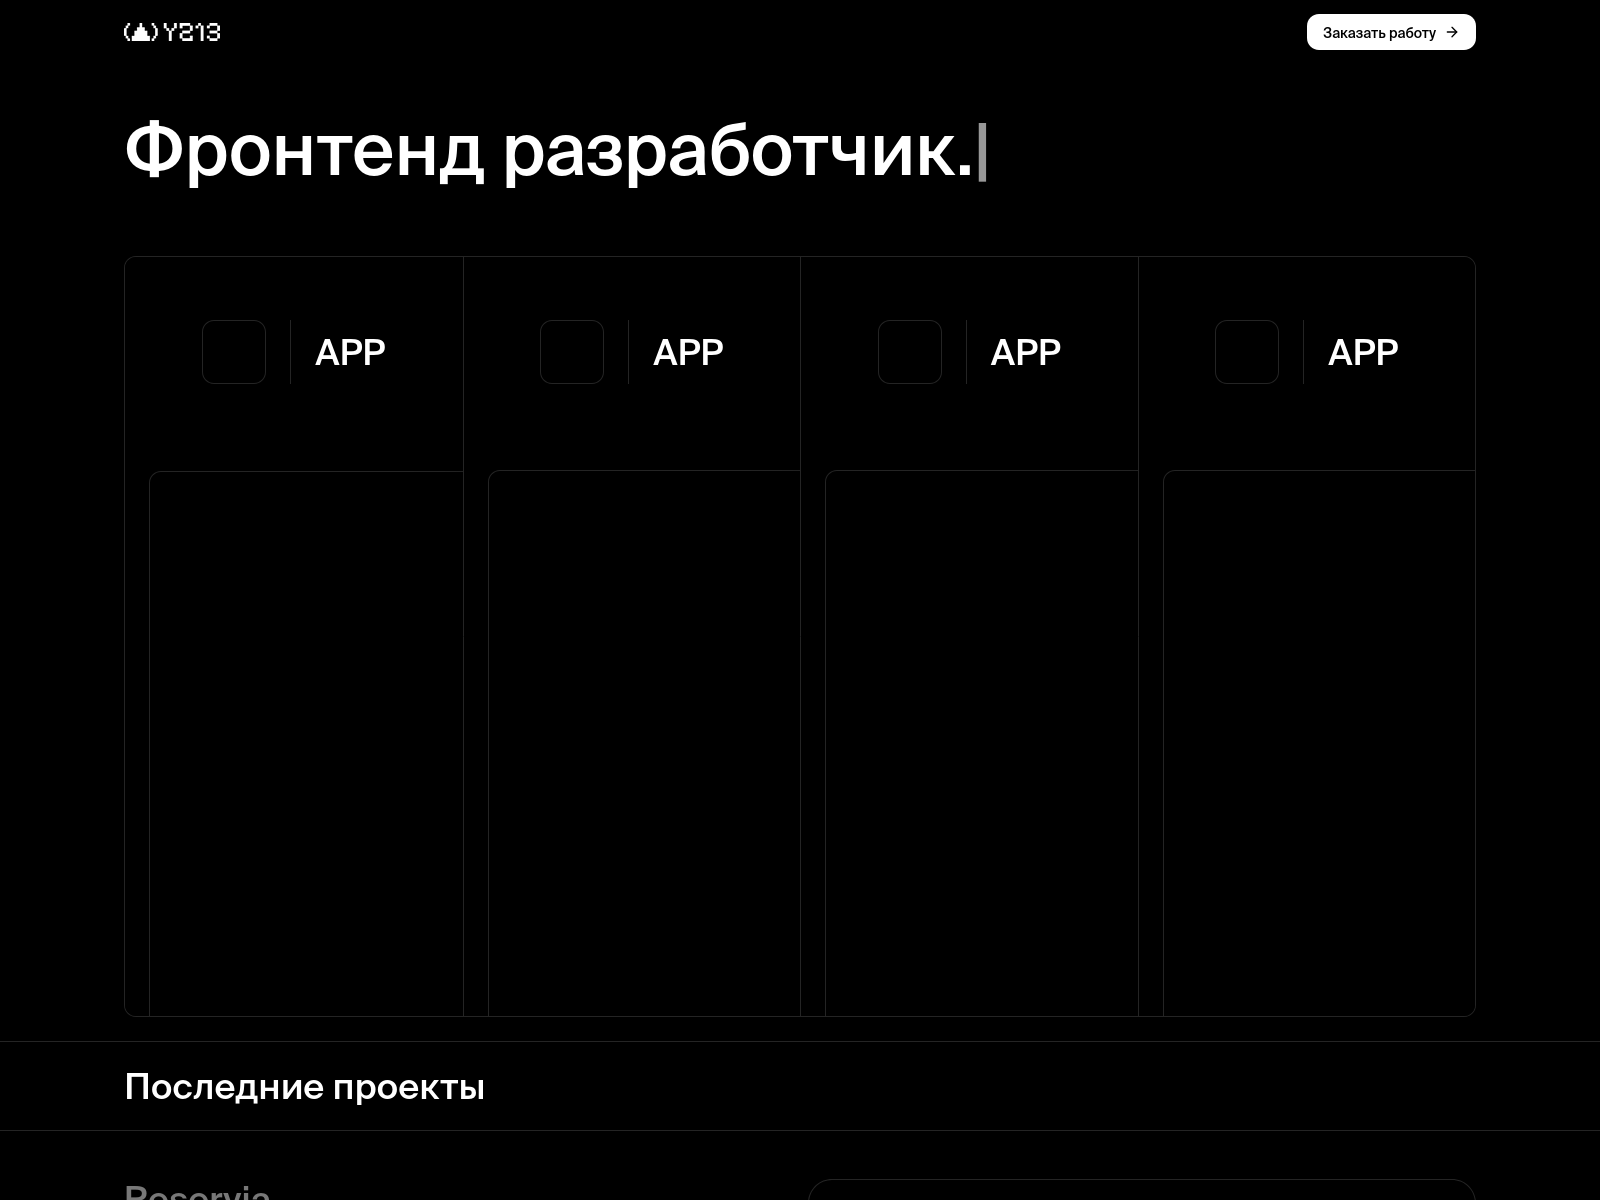
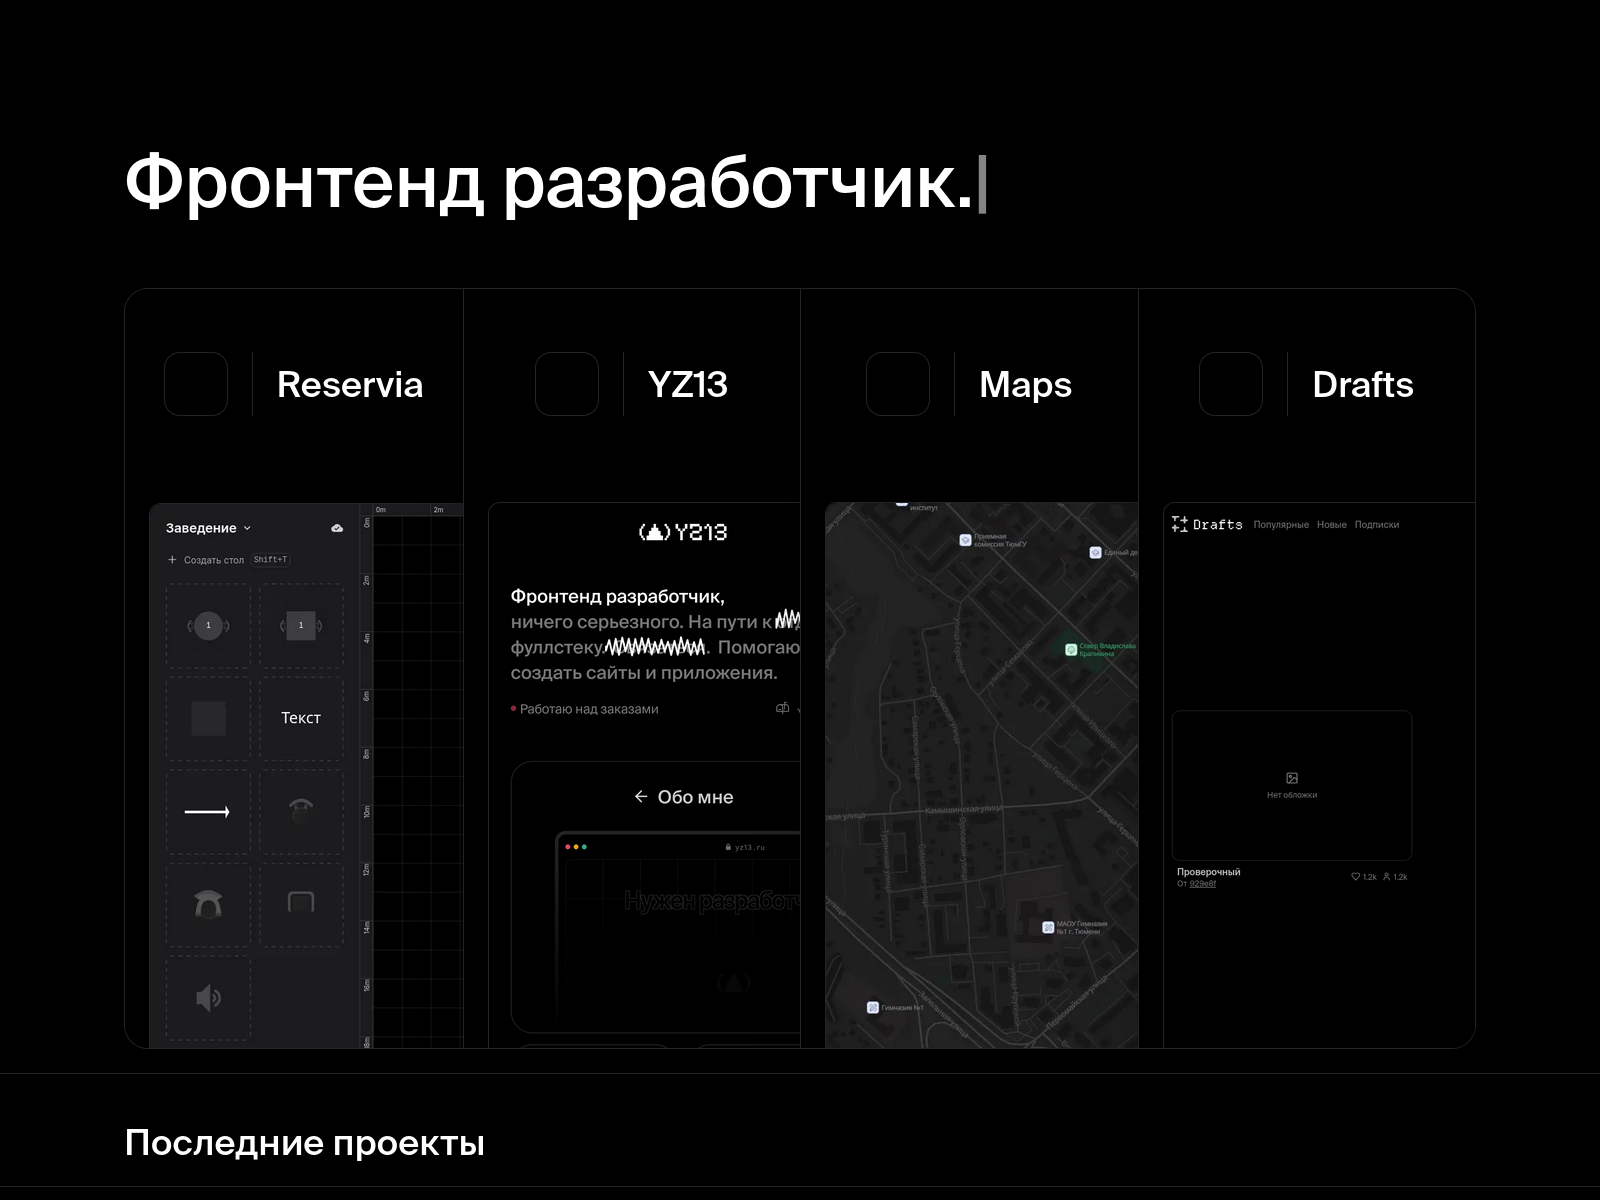
update promo page, add more images

diff --git a/apps/pages/app/(pages)/promo/page.tsx b/apps/pages/app/(pages)/promo/page.tsx
@@ -1,11 +1,9 @@
-import { Logo } from "@/components/logo";
 import { Typewriter } from "@/components/text-writter";
-import { ArrowRightIcon } from "lucide-react";
-import { Button } from "mono/components/button";
 import { Separator } from "mono/components/separator";
 import { Metadata } from "next";
-import Link from "next/link";
+import Image from "next/image";
 import config from "./page.config.json";
+import RecentBlog from "./recent-blog";
 import RecentProjects from "./recent-projects";
 
 export const metadata: Metadata = {
@@ -16,7 +14,7 @@ export const metadata: Metadata = {
 const page = async () => {
   return (
     <>
-      <div className="w-full h-16">
+      {/* <div className="w-full h-16">
         <header className="container mx-auto w-full h-full px-6 flex items-center justify-between">
           <Link href="/">
             <Logo size={{ width: 96, height: 18 }} type="full" />
@@ -26,8 +24,8 @@ const page = async () => {
             <ArrowRightIcon size={16} />
           </Button>
         </header>
-      </div>
-      <div className="container mx-auto w-full py-12 px-6">
+      </div> */}
+      <div className="container mx-auto w-full py-12 lg:!mt-24 mt-12 px-6">
         <Typewriter
           text={[
             "Фронтенд разработчик.",
@@ -50,56 +48,119 @@ const page = async () => {
         </div>
       )}
       <div className="container mx-auto w-full p-6">
-        <div className="w-full flex aspect-video border divide-x overflow-hidden rounded-xl bg-background-back">
-          <div className="w-1/4 h-full bg-background shadow-2xl">
+        <div className="w-full flex aspect-video border divide-x overflow-hidden rounded-3xl bg-background-back">
+          <div className="w-1/4 h-full overflow-hidden bg-background shadow-2xl hover:bg-background-back transition-colors">
             <div className="w-full gap-6 shrink-0 aspect-video flex justify-center items-center">
-              <div className="size-16 rounded-xl border" />
+              <div className="size-16 rounded-2xl bg-background border" />
               <Separator orientation="vertical" className="h-16" />
-              <span className="text-4xl font-medium">APP</span>
+              <span className="text-4xl font-medium">Reservia</span>
             </div>
             <div className="w-full h-full pl-6 py-6">
-              <div className="aspect-video h-full border rounded-xl"></div>
+              <div className="aspect-video h-full border rounded-xl">
+                <Image
+                  src="/pages/promo/reservia/map-editor-page.png"
+                  className="!static rounded-xl object-cover light-mode-image"
+                  fill
+                  alt="Reservia"
+                />
+                <Image
+                  src="/pages/promo/reservia/map-editor-page-dark.png"
+                  className="!static rounded-xl object-cover dark-mode-image"
+                  fill
+                  alt="Reservia"
+                />
+              </div>
             </div>
           </div>
-          <div className="w-1/4 h-full bg-background shadow-2xl">
+          <div className="w-1/4 h-full overflow-hidden bg-background shadow-2xl hover:bg-background-back transition-colors">
             <div className="w-full gap-6 shrink-0 aspect-video flex justify-center items-center">
-              <div className="size-16 rounded-xl border" />
+              <div className="size-16 rounded-2xl bg-background border" />
               <Separator orientation="vertical" className="h-16" />
-              <span className="text-4xl font-medium">APP</span>
+              <span className="text-4xl font-medium">YZ13</span>
             </div>
             <div className="w-full h-full pl-6 py-6">
-              <div className="aspect-[9/16] h-full border rounded-xl"></div>
+              <div className="w-[125%] border rounded-xl">
+                <Image
+                  src="/pages/promo/yz13/yz13-page.png"
+                  className="!static rounded-xl object-cover light-mode-image"
+                  fill
+                  alt="Reservia"
+                />
+                <Image
+                  src="/pages/promo/yz13/yz13-page-dark.png"
+                  className="!static rounded-xl object-cover dark-mode-image"
+                  fill
+                  alt="Reservia"
+                />
+              </div>
             </div>
           </div>
-          <div className="w-1/4 h-full bg-background shadow-2xl">
+          <div className="w-1/4 h-full overflow-hidden bg-background shadow-2xl hover:bg-background-back transition-colors">
             <div className="w-full gap-6 shrink-0 aspect-video flex justify-center items-center">
-              <div className="size-16 rounded-xl border" />
+              <div className="size-16 rounded-2xl bg-background border" />
               <Separator orientation="vertical" className="h-16" />
-              <span className="text-4xl font-medium">APP</span>
+              <span className="text-4xl font-medium">Maps</span>
             </div>
             <div className="w-full h-full pl-6 py-6">
-              <div className="aspect-video h-full border rounded-xl"></div>
+              <div className="aspect-video h-full border rounded-xl">
+                <Image
+                  src="/pages/promo/maps/map-project.png"
+                  className="!static rounded-xl object-cover light-mode-image"
+                  fill
+                  alt="Reservia"
+                />
+                <Image
+                  src="/pages/promo/maps/map-project-dark.png"
+                  className="!static rounded-xl object-cover dark-mode-image"
+                  fill
+                  alt="Reservia"
+                />
+              </div>
             </div>
           </div>
-          <div className="w-1/4 h-full bg-background shadow-2xl">
+          <div className="w-1/4 h-full overflow-hidden bg-background shadow-2xl hover:bg-background-back transition-colors">
             <div className="w-full gap-6 shrink-0 aspect-video flex justify-center items-center">
-              <div className="size-16 rounded-xl border" />
+              <div className="size-16 rounded-2xl bg-background border" />
               <Separator orientation="vertical" className="h-16" />
-              <span className="text-4xl font-medium">APP</span>
+              <span className="text-4xl font-medium">Drafts</span>
             </div>
             <div className="w-full h-full pl-6 py-6">
-              <div className="aspect-[9/16] h-full border rounded-xl"></div>
+              <div className="aspect-video h-full border rounded-xl">
+                <Image
+                  src="/pages/promo/drafts/drafts-project.png"
+                  className="!static rounded-xl object-cover light-mode-image"
+                  fill
+                  alt="Reservia"
+                />
+                <Image
+                  src="/pages/promo/drafts/drafts-project-dark.png"
+                  className="!static rounded-xl object-cover dark-mode-image"
+                  fill
+                  alt="Reservia"
+                />
+              </div>
             </div>
           </div>
         </div>
       </div>
       <div className="border-y">
-        <div className="container mx-auto w-full p-6">
+        <div className="container mx-auto w-full px-6 pb-6 pt-12">
           <h2 className="text-4xl font-medium">Последние проекты</h2>
         </div>
       </div>
       <div className="divide-y">
         <RecentProjects />
+      </div>
+      <div className="border-y">
+        <div className="container mx-auto w-full px-6 pb-6 pt-12">
+          <h2 className="text-4xl font-medium">Блог</h2>
+          <p className="text-4xl font-medium text-secondary">
+            Собственный журнал
+          </p>
+        </div>
+      </div>
+      <div className="divide-y">
+        <RecentBlog />
       </div>
     </>
   );

diff --git a/apps/pages/app/(pages)/promo/recent-blog.tsx b/apps/pages/app/(pages)/promo/recent-blog.tsx
@@ -1,0 +1,31 @@
+import { ArrowRightIcon } from "lucide-react";
+import { Button } from "mono/components/button";
+
+const RecentBlog = () => {
+  return (
+    <section className="hover:bg-background-back transition-colors">
+      <div className="container mx-auto w-full px-6 py-12 flex items-start justify-between gap-4">
+        <div className="lg:!w-1/2 w-full flex flex-col gap-4">
+          <div className="flex items-center gap-4">
+            <span className="text-base text-secondary">8 Февраля 2025</span>
+          </div>
+          <h4 className="text-4xl font-medium">
+            Новое приложение, "Pages" - библиотека страниц и компонентов.
+          </h4>
+          <div className="flex items-center mt-6 gap-2">
+            <div className="size-10 rounded-full border" />
+            <div className="flex flex-col">
+              <span className="text-base font-medium">YZ13</span>
+              <span className="text-xs text-secondary">Разработчик</span>
+            </div>
+          </div>
+        </div>
+        <Button variant="outline" size="icon">
+          <ArrowRightIcon size={16} />
+        </Button>
+      </div>
+    </section>
+  );
+};
+
+export default RecentBlog;
